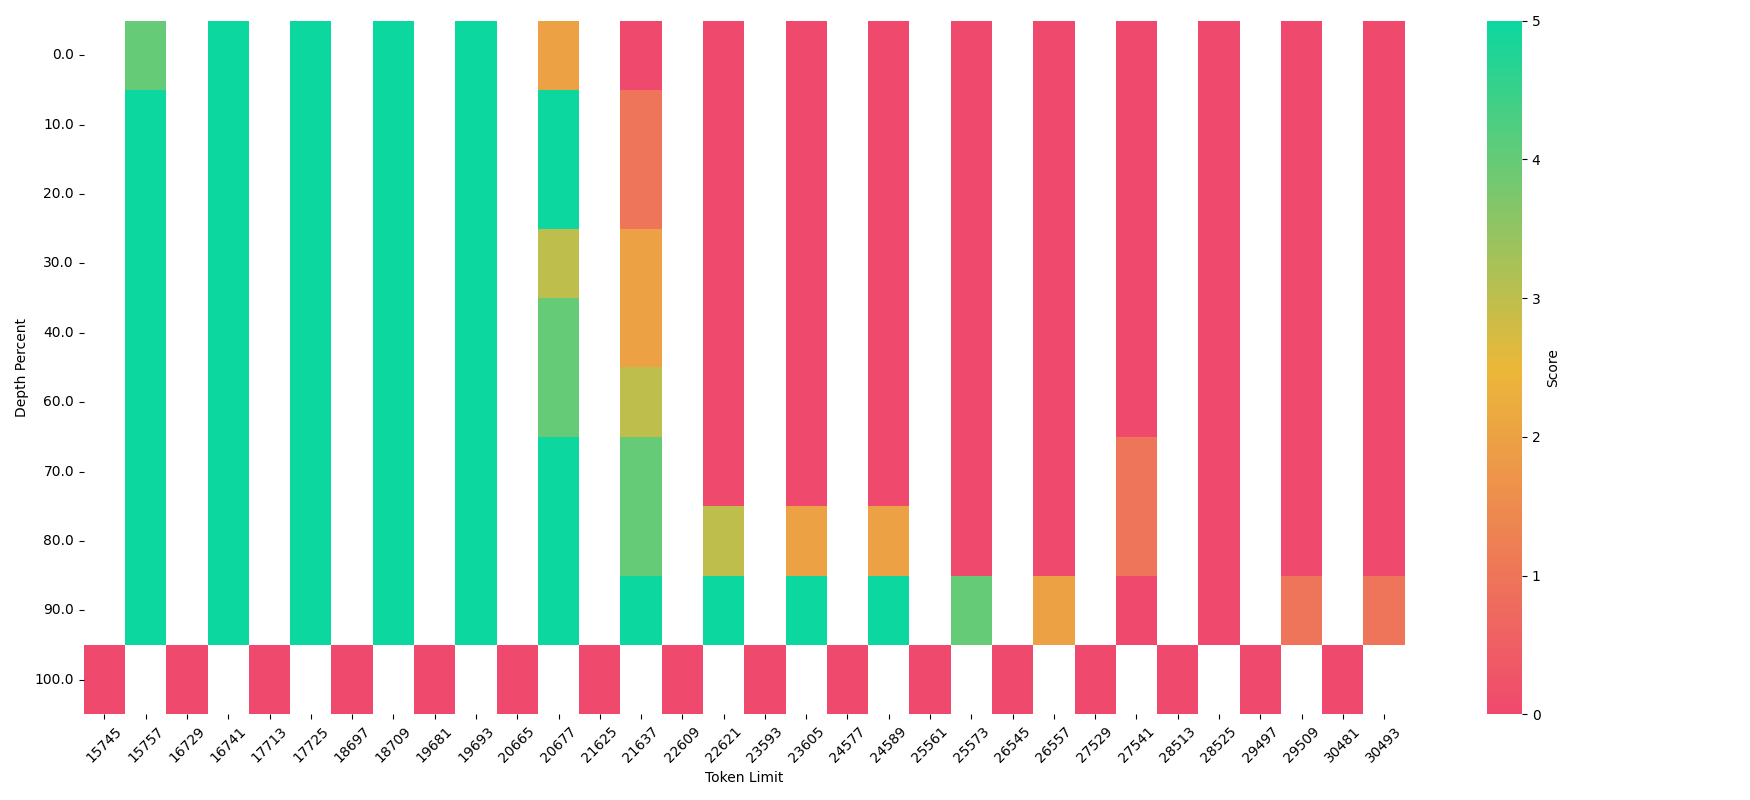
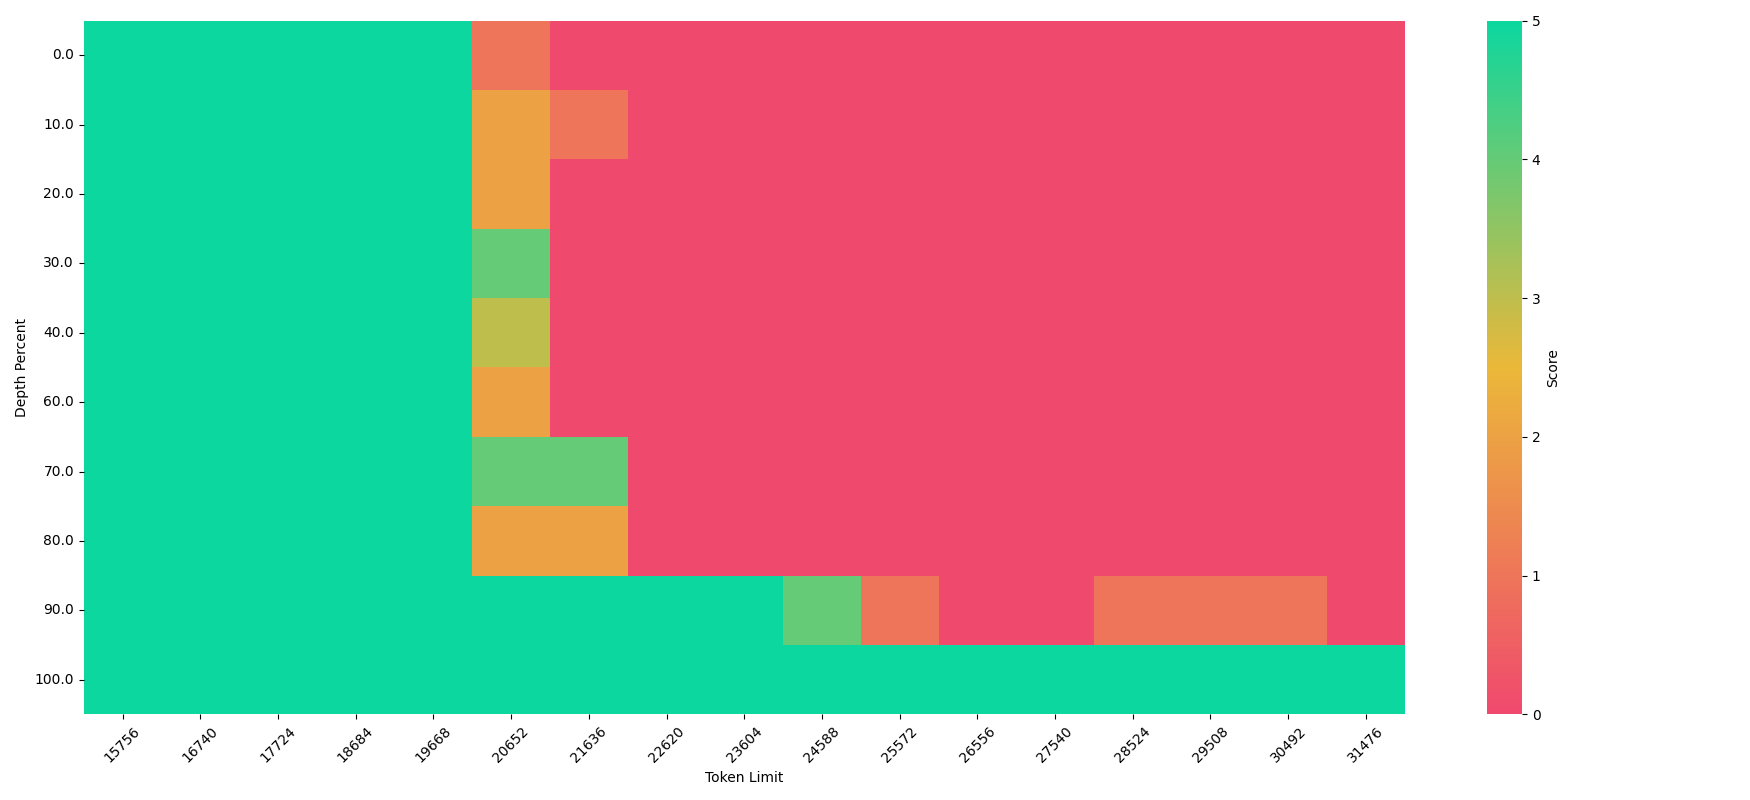
results for rwkv7 1b5 niah

diff --git a/pass_key.py b/pass_key.py
@@ -153,9 +153,9 @@ def main(args):
     print("base model", args.base_model)
 
     # Load model and tokenizer
-    model = AutoModelForCausalLM.from_pretrained('fla-hub/rwkv7-2.9B-world', trust_remote_code=True)
+    model = AutoModelForCausalLM.from_pretrained('fla-hub/rwkv7-1.5B-world', trust_remote_code=True)
     model = model.to('cuda')
-    tokenizer = AutoTokenizer.from_pretrained('fla-hub/rwkv7-2.9B-world', trust_remote_code=True)
+    tokenizer = AutoTokenizer.from_pretrained('fla-hub/rwkv7-1.5B-world', trust_remote_code=True)
 
     model.eval()
 
@@ -234,7 +234,7 @@ def main(args):
     plt.xticks(rotation=45)
     plt.yticks(rotation=0)
     plt.tight_layout()
-    plt.savefig(f"data/heatmap_tokenized_{args.max_tokens}_rwkv7_2b9_base.png")
+    plt.savefig(f"data/heatmap_tokenized_{args.max_tokens}_rwkv7_1b5_base.png")
 
 if __name__ == "__main__":
     args = parse_config()
